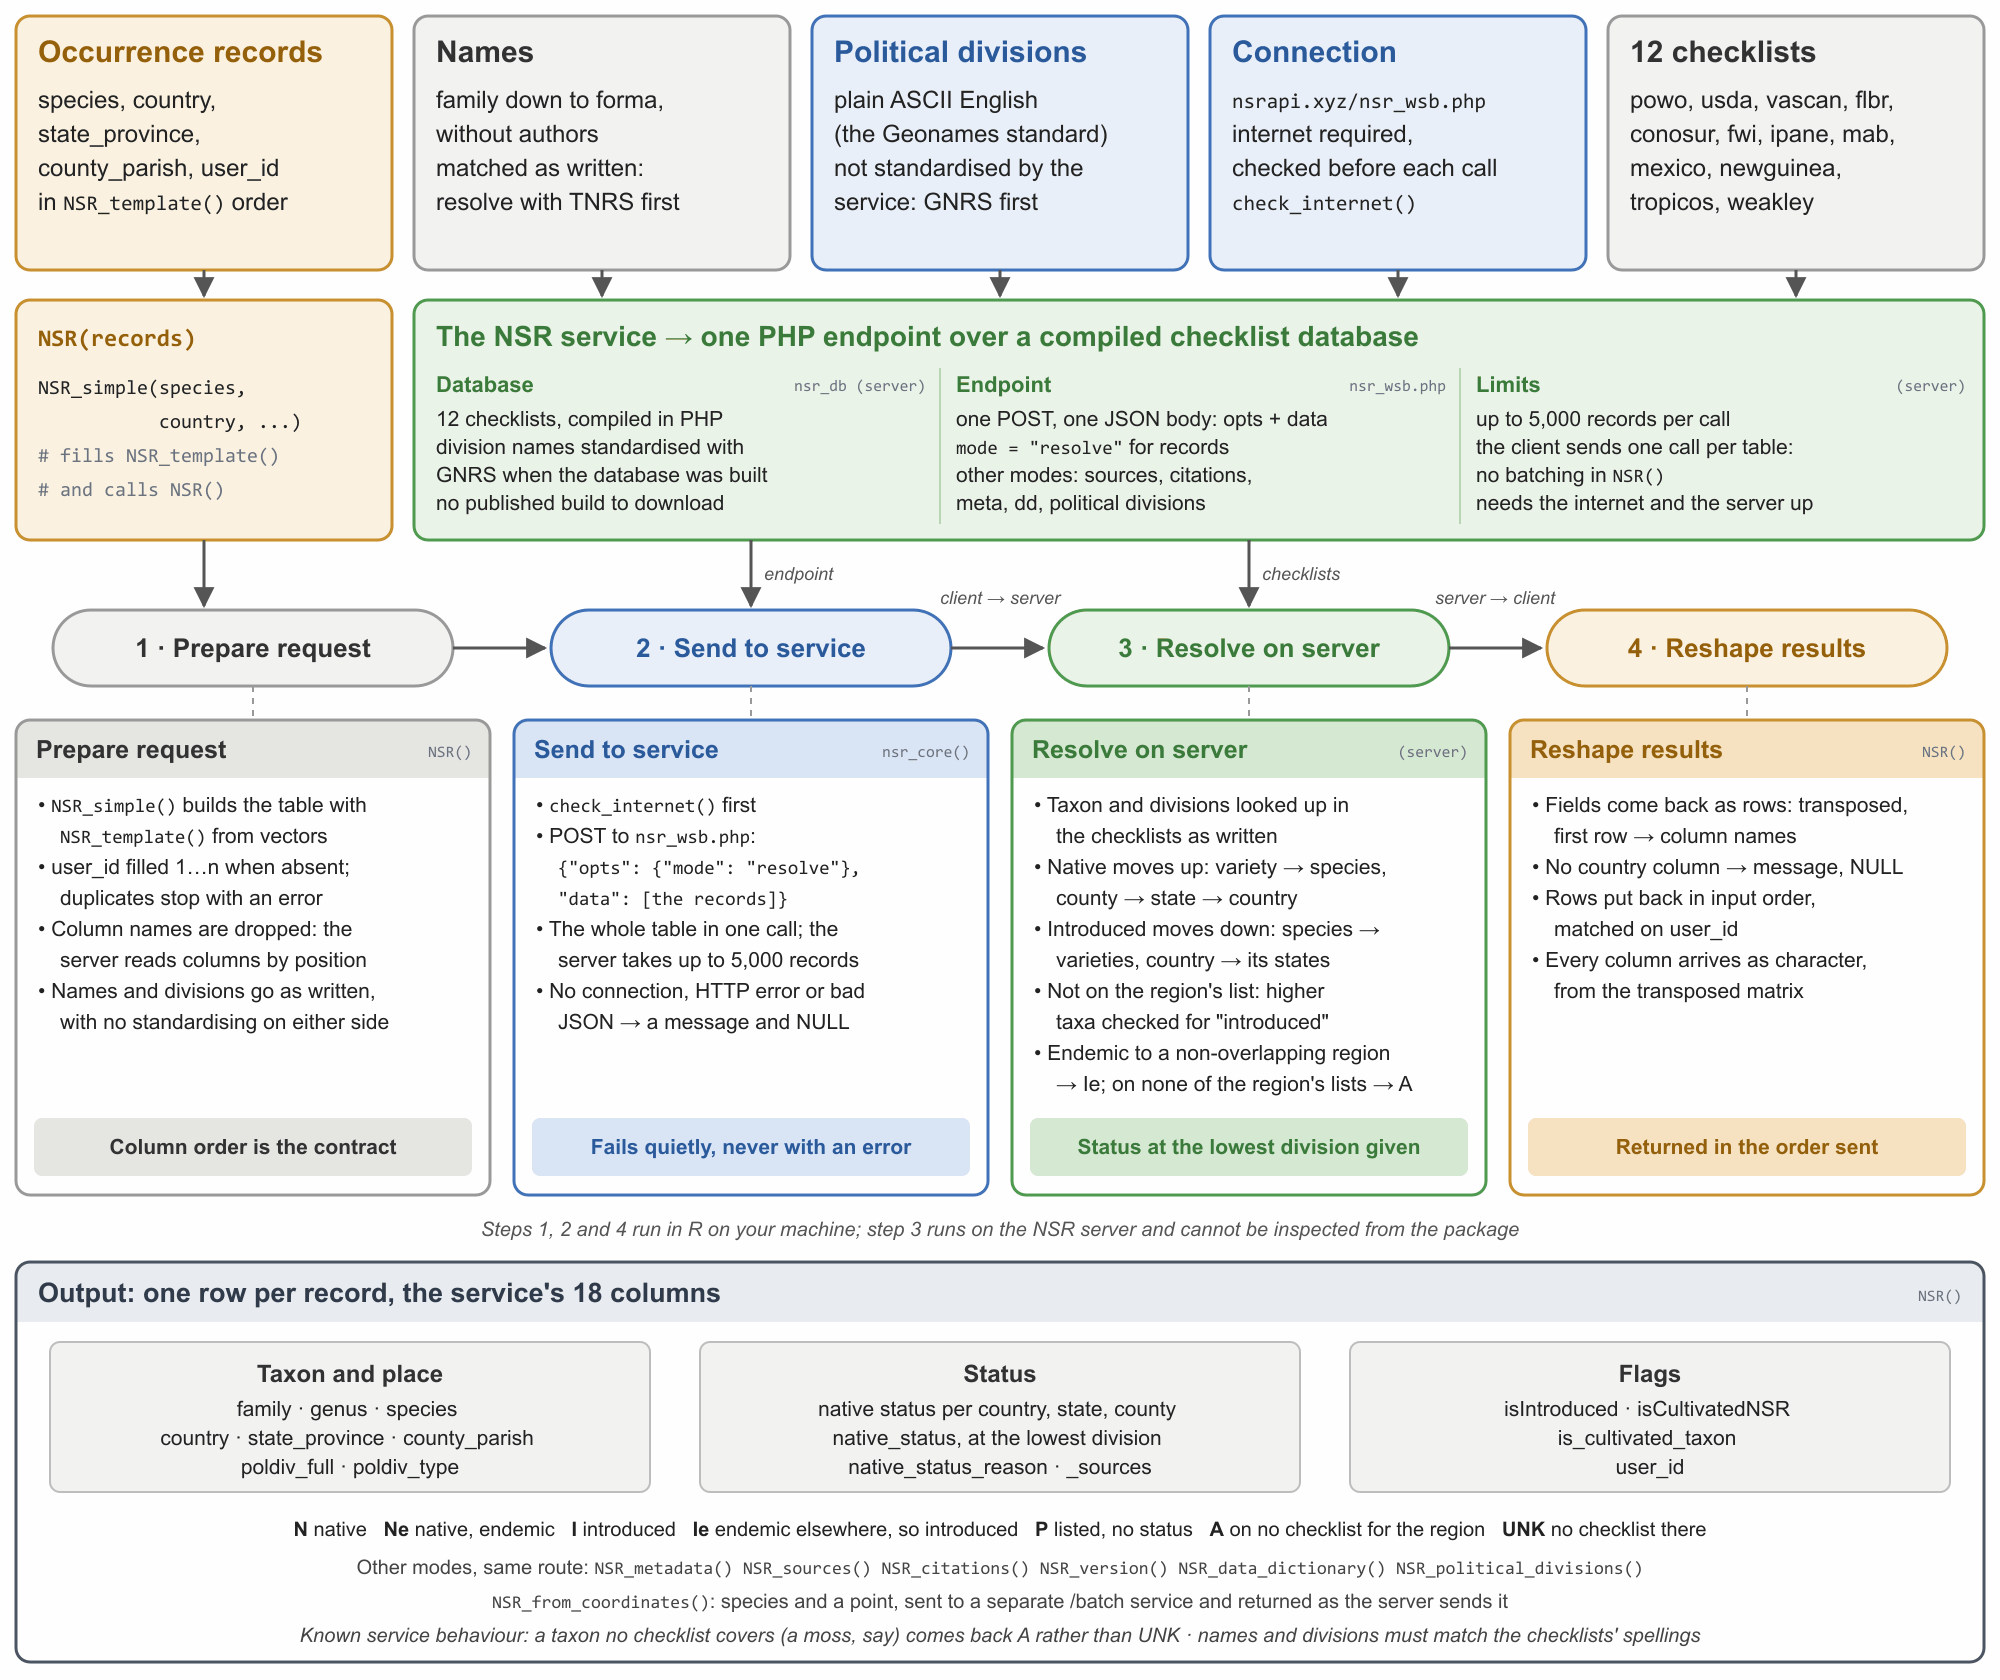
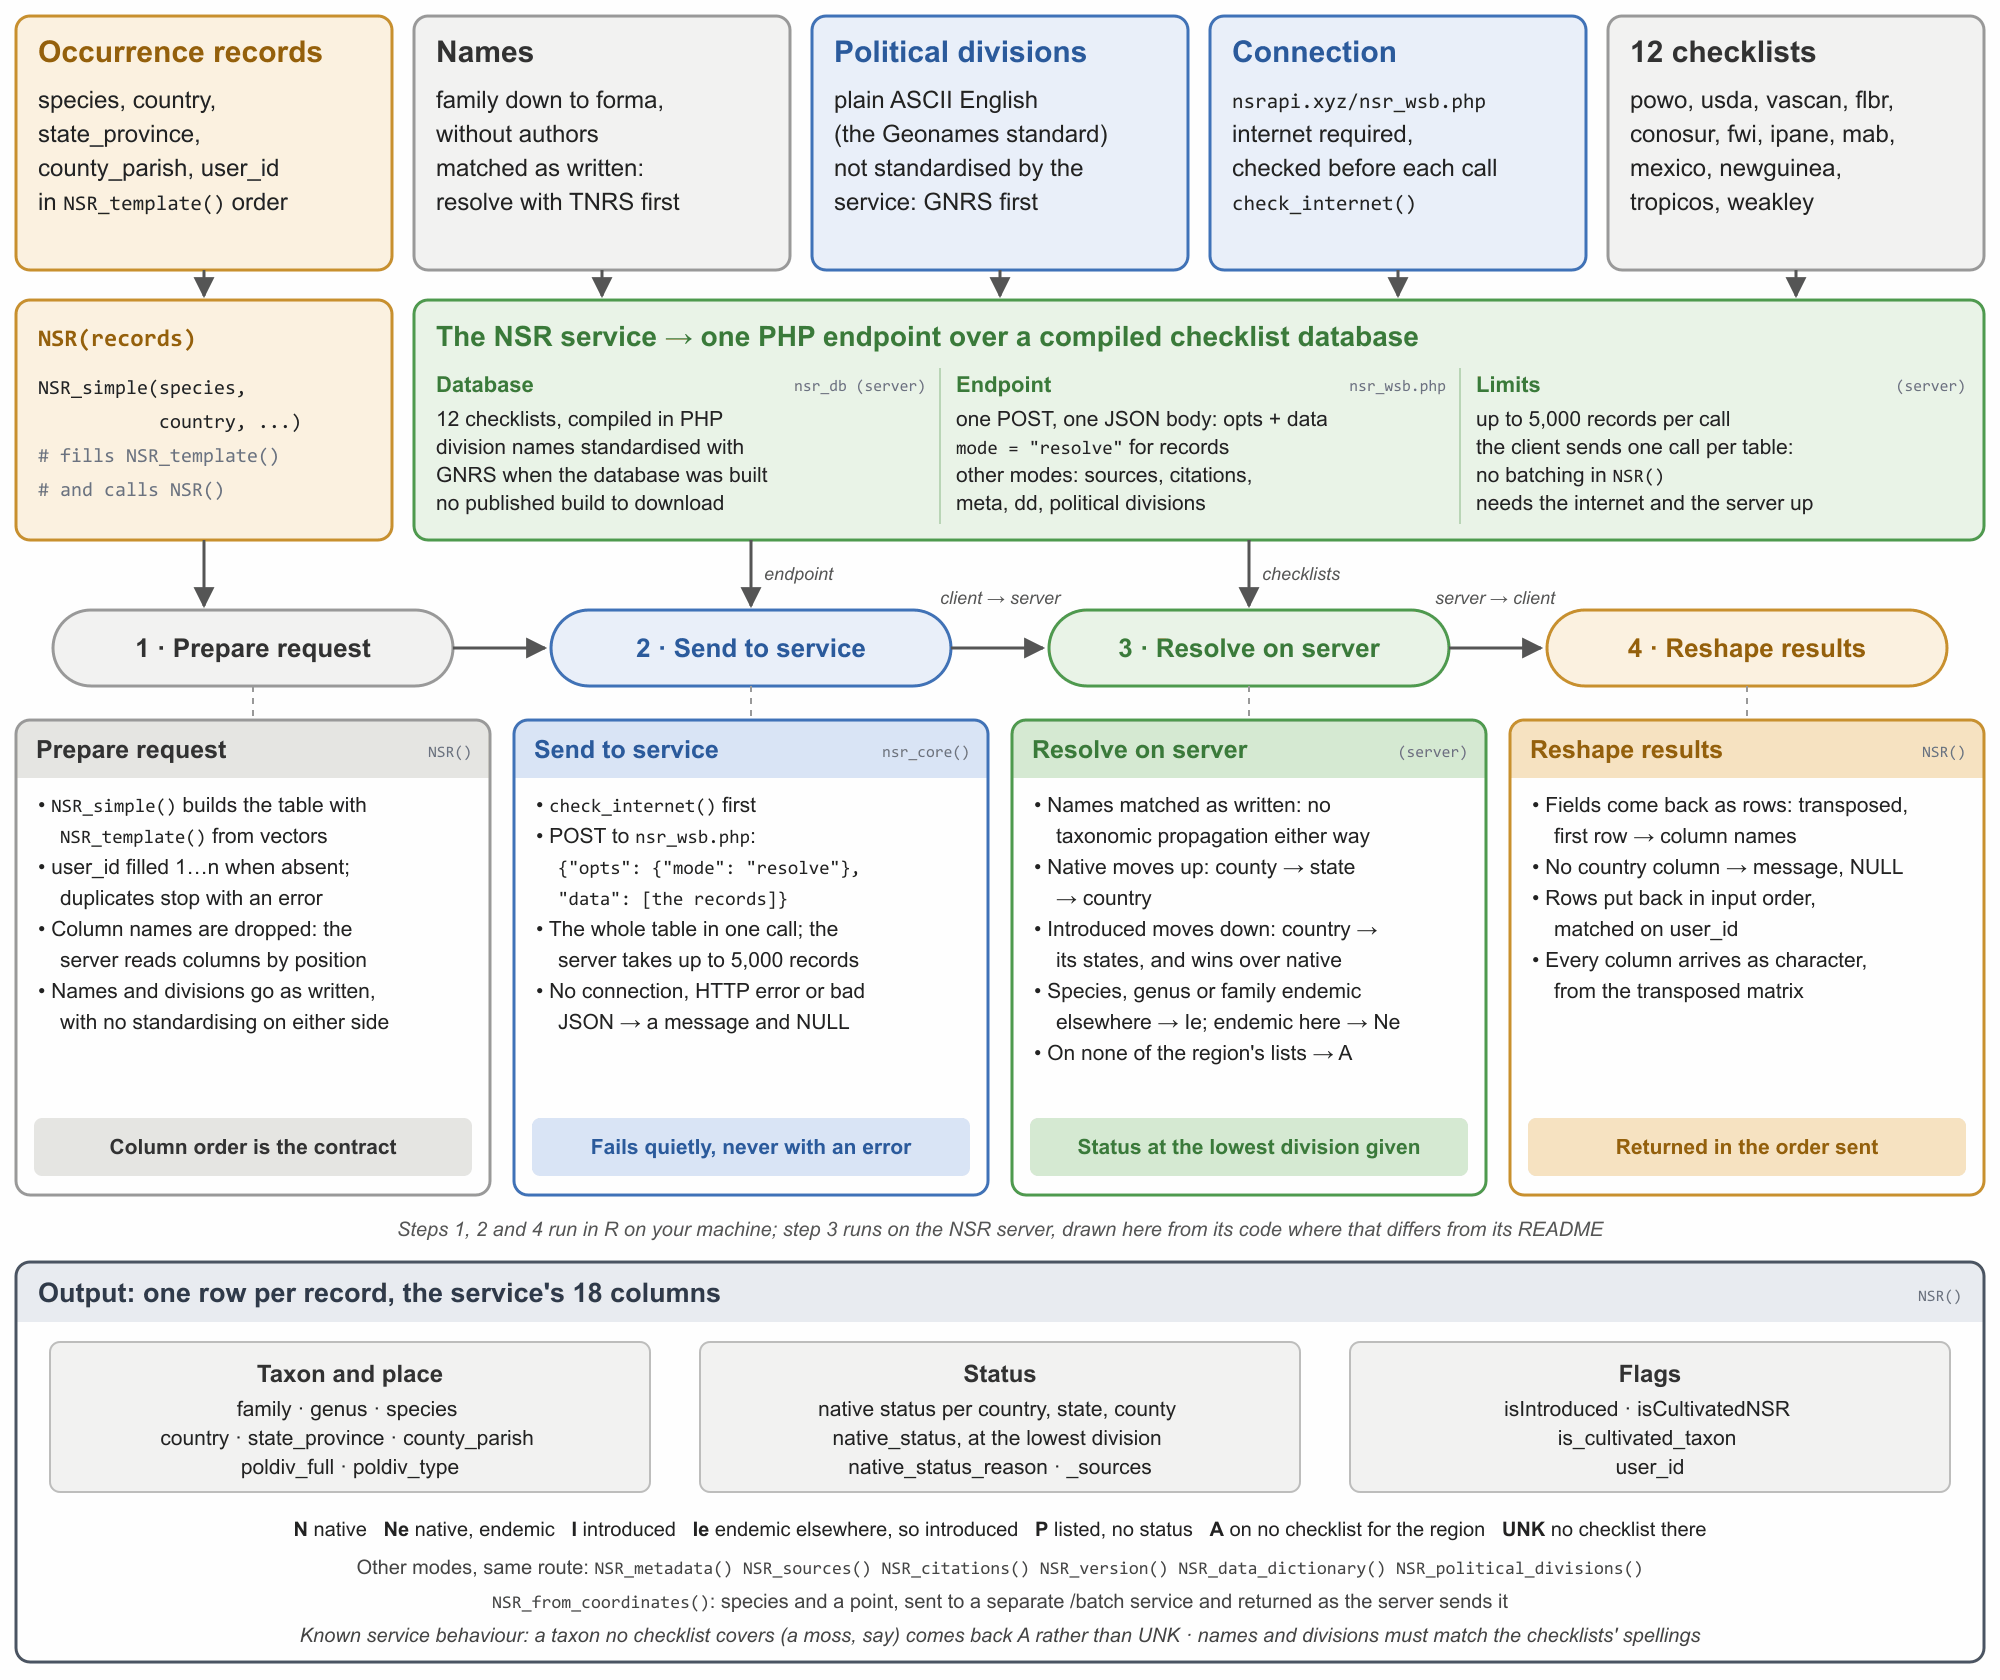
Describe the service by its code, not its README; defer two inferences
The design note, the help and both figures took the service's taxonomic
rules from its README, which says it "will also search higher taxa for
opinions indicating the taxon is introduced".  Its code does not.  Read
against ojalaquellueva/nsr: every status join is o.species = d.taxon; the
submitted name is kept as written, so not even the README's own Poa annua
var. supina -> Poa annua -> Poa walk happens; and a search of the resolver
and the database build finds genus and family joined only for endemism - a
genus or family endemic elsewhere makes a species Ie, endemic here Ne.  The
introduced step also runs last and, in its own comment, prefers introduced
over native: the reverse of NSR_local()'s precedence.

So the note's "known and permanent divergence" - that NSR() gives unlisted
species a genus-derived status and we do not - was wrong: on native-by-genus
the two agree.  The real difference runs the other way, and the note, the
Rank paragraph, the API figure's server panel and the offline figure's
differences line now say so.  The API figure's caption says its server panel
follows the code where code and README differ.

Recorded in the design note for later, after the open Copilot review on PR #1
is resolved: two downward inferences that rest on universal rather than
existential claims, and so do not fall foul of the ecological-fallacy rule -
genus or family introduced here -> species I, and genus or family endemic
[…]

Changed region(s): [[0.527, 0.4643, 0.682, 0.65], [0.248, 0.7119, 0.806, 0.7429]]

diff --git a/dev_notes/01-offline-nsr-design.md b/dev_notes/01-offline-nsr-design.md
@@ -37,8 +37,8 @@ division supplied.
 Propagation rules, from the service README:
 - **Taxonomic:** native propagates *up* (a native variety makes the species, genus and family native
   there); introduced propagates *down* (an introduced species makes its varieties introduced). With
-  no opinion for the taxon, higher ranks are consulted. **We reproduce the first and decline the
-  last - see below.**
+  no opinion for the taxon, higher ranks are consulted. **The service's code implements less of
+  this than its README says - see "What the service's code does", below.**
 - **Political:** native propagates *up* (native in a county implies native in its state and country);
   introduced propagates *down* (introduced in a country implies introduced in its states).
 - **Absence:** absent from a checklist gives `A`; absent while endemic elsewhere gives `Ie`.
@@ -477,9 +477,55 @@ place), never native-by-genus. `taxon_evaluable` says which it is. A genus *quer
 directly, because WCVP records distributions against genera and those rows are kept keyed on the
 genus - that is answering the question asked, not inferring downward from it.
 
-**This is a known and permanent divergence from the service**, and belongs with the `wcvp`/`powo`
-source-name difference in any validation against `NSR()`: where the live service returns a
-genus-derived status for an unlisted species, we return `UNK` or `A`.
+This was first recorded here as a permanent divergence from the service. **It is not one**
+(corrected 2026-10-17): the README says the service consults higher ranks, but its code never gives
+a species its genus's status, and never native. On native-by-genus the two agree. The difference
+that does exist runs the other way - the service uses higher ranks for endemism, and we do not yet;
+see the next two sections.
+
+### What the service's code does (checked 2026-10-17)
+
+The README overstates the taxonomic rules. Read against `ojalaquellueva/nsr` (`master`): the
+resolver runs `nsr_includes/check_absence.php`, then `check_presence.php`, then `infer_status.php`,
+and the database build lives in `db/` (`nsr_db` is now `nsr_db_retired`).
+
+- **Names are matched as submitted.** `prepare_observations.php` keeps the submitted name in
+  `species`, fills `genus` with its first word and `family` from a genus-to-family lookup, and
+  never trims a trinomial to its species. Every status join is `o.species = d.taxon`.
+- **So there is no taxonomic propagation in either direction**: not the README's own *Poa annua*
+  var. *supina* -> *Poa annua* -> *Poa* walk, and no "introduced" from a genus or family. A search
+  of the resolver and the build for joins on genus or family finds only the endemism steps, the
+  reason text, and the name splitting.
+- **Higher ranks are used for endemism only.** A genus or family listed as endemic to another
+  region makes the species `Ie` ("Introduced, genus endemic to other region"); endemic to this
+  region, `Ne`.
+- **Political propagation is as described**: native in a county sets its state and country native;
+  introduced in a country sets its states introduced.
+- **Precedence is the reverse of ours.** The introduced step runs last and, in its own comment,
+  "automatically prefers a designation of introduced over a designation of native". `NSR_local()`
+  lets native win (BM, 2026-09-18), so the two can differ wherever sources conflict.
+- `nsr_includes/check_observations.php` is marked "UNDER DEVELOPMENT" and nothing includes it.
+
+### Deferred: two sound downward inferences (BM, 2026-10-17)
+
+Native-by-genus is declined because "a genus is native here" is existential - *some* species of it
+is - and says nothing about the species in hand. Two claims about a higher taxon are universal
+instead, true of every species in it, and so they do carry down:
+
+1. **Genus or family introduced here -> species introduced here**, for a species with no record of
+   its own in the place. In WCVP v15, 51,473 genus x area records are introduced, across 2,833
+   genera (409 in California - *Acacia*, *Aegilops*, *Acanthus*, ...). In none of those areas does
+   any species of the genus have a native record: all 71,740 species records there are introduced.
+   So in this data "genus introduced here" is exactly the universal claim, and the inference can
+   only answer where a species is silent, never overturn a native record. Such a species is `A`
+   today (or `UNK` if it has no record anywhere); it would be `I`. The service does not do this,
+   so it would go beyond `NSR()`.
+2. **Genus or family endemic elsewhere -> species `Ie`**, as the service does. In WCVP, 2,500 of
+   14,056 genera are native to a single WGSRPD area.
+
+**To be implemented once the open Copilot review on PR #1 is resolved**, in both resolver paths,
+with the row/set parity tests extended to cover them and the reason text naming the higher taxon
+that answered, as the service's does.
 
 ## Milestones
 
